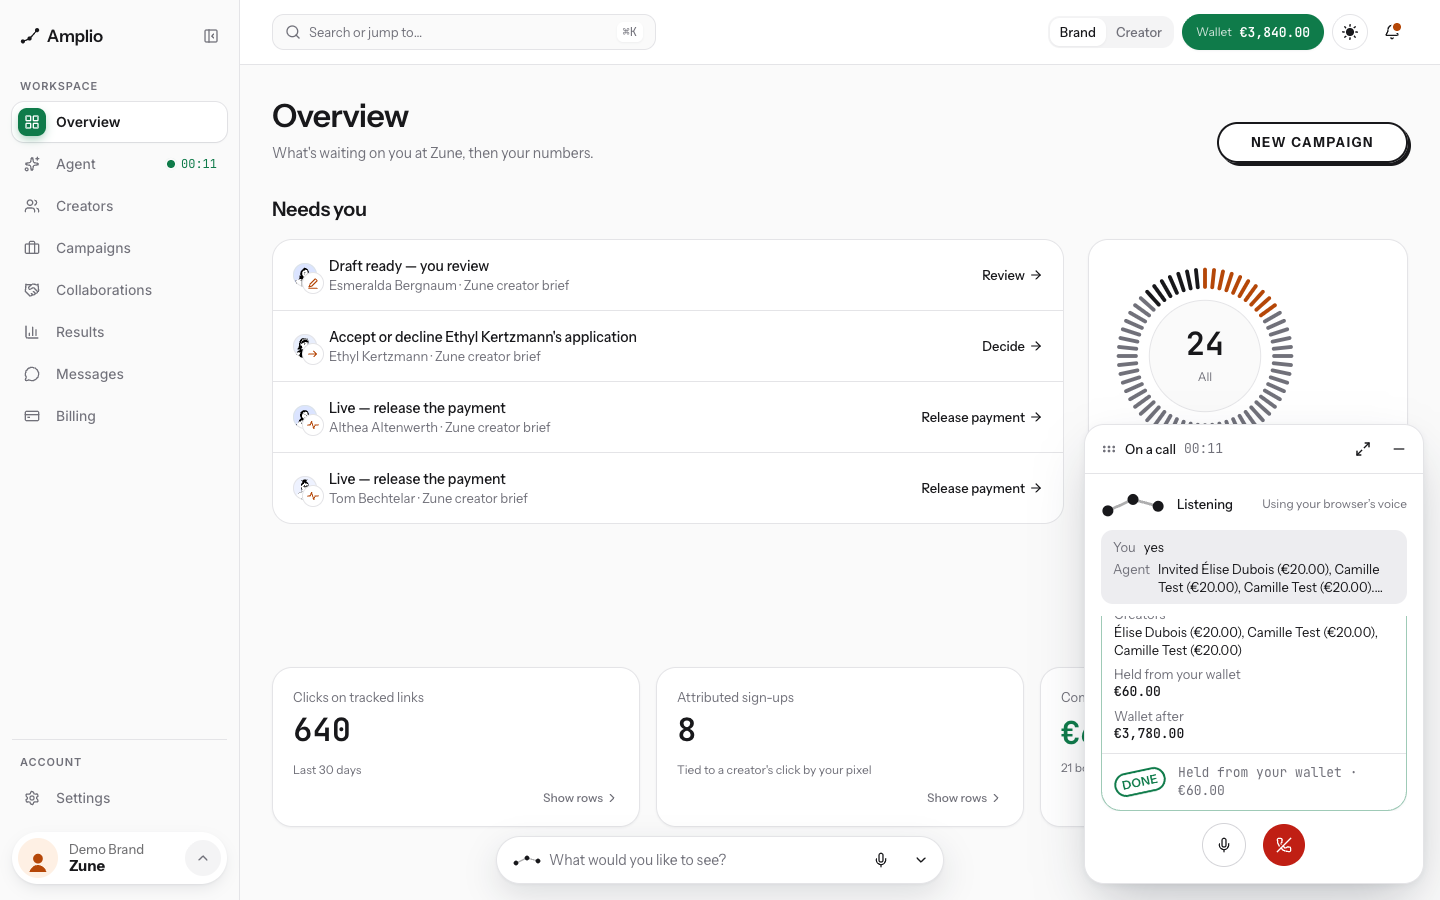
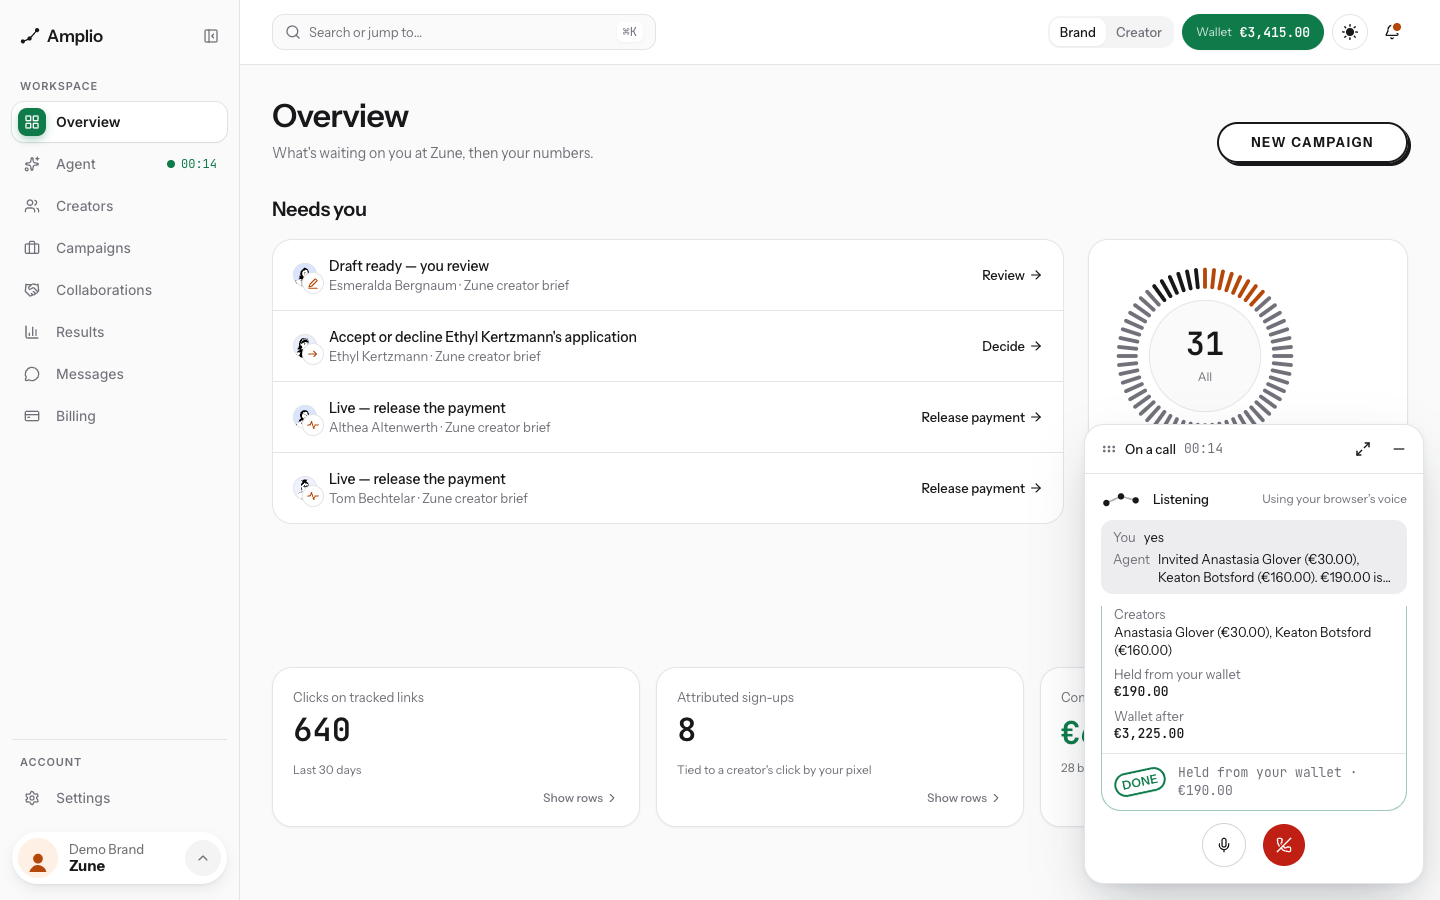
fix(agent): the call's dots stay the mark, one assistant on screen, captions in our words
The level drove the dots to 2–3× with a bigger middle, so they read as
blobs; now equal circles swell at most 1.6× and lift a little, clamped and
eased. The dock hides while the call widget is up, so there's one assistant
at a time, and the phone bar drops to the foot. The Agent caption uses the
text we hand to the voice (voice-input), not Vapi's transcript of its own
speech, which misspelled the product. A done confirm, in chat or on a call,
refreshes the shell so the wallet chip re-reads the balance.

diff --git a/src/features/agent/components/call/widget/CallDots.tsx b/src/features/agent/components/call/widget/CallDots.tsx
@@ -6,15 +6,18 @@ import type { CallMode } from "../callTypes";
 
 type Props = { mode: CallMode; readInput: () => number; readOutput: () => number; className?: string };
 
-const EASE = 0.35;
+const EASE = 0.25;
 const THINK_MS = 180;
-const THINK_LIFT = 0.45;
-const GAIN = 1.5;
-const EDGE_DAMP = 0.35;
+// at most 1.6× and a lift of 1.2 viewBox units: the mark stays the mark
+const MAX_GROW = 0.6;
+const RISE = 1.2;
+const EDGE = 0.8;
+const clamp01 = (v: number) => Math.min(1, Math.max(0, v));
 
-// The mark's three dots as the call's pulse: listening, they follow the mic;
-// speaking, the agent's voice; thinking, a wave runs across them; muted or at
-// rest, they sit still. Transform only; reduced motion keeps them still.
+// The mark's three dots as the call's pulse: equal circles on their line that
+// swell a little and lift with the level (the mic while listening, the voice
+// while speaking); thinking, a small wave runs across them; muted or at rest
+// they sit still. Transform only; reduced motion keeps them still.
 export function CallDots({ mode, readInput, readOutput, className }: Props) {
   const root = useRef<SVGSVGElement>(null);
   useEffect(() => {
@@ -23,12 +26,12 @@ export function CallDots({ mode, readInput, readOutput, className }: Props) {
     let level = 0;
     const paint = (now: number) => {
       const dots = root.current?.querySelectorAll<SVGCircleElement>("circle");
-      const target = mode === "listening" ? readInput() : mode === "speaking" ? readOutput() : 0;
+      const target = clamp01(mode === "listening" ? readInput() : mode === "speaking" ? readOutput() : 0);
       level += (target - level) * EASE;
       dots?.forEach((dot, i) => {
-        const wave = mode === "thinking" ? THINK_LIFT * Math.max(0, Math.sin(now / THINK_MS - i * 0.9)) : 0;
-        const voice = level * GAIN * (1 - Math.abs(i - 1) * EDGE_DAMP);
-        dot.style.transform = still ? "" : `scale(${(1 + wave + voice).toFixed(3)})`;
+        const wave = mode === "thinking" ? 0.5 * Math.max(0, Math.sin(now / THINK_MS - i * 0.9)) : 0;
+        const amount = clamp01(level * (i === 1 ? 1 : EDGE) + wave);
+        dot.style.transform = still ? "" : `translate(0px, ${(-RISE * amount).toFixed(2)}px) scale(${(1 + MAX_GROW * amount).toFixed(3)})`;
       });
       raf = requestAnimationFrame(paint);
     };
@@ -36,7 +39,7 @@ export function CallDots({ mode, readInput, readOutput, className }: Props) {
     return () => cancelAnimationFrame(raf);
   }, [mode, readInput, readOutput]);
   return (
-    <svg ref={root} viewBox="0 0 28 12" data-mode={mode} className={cn("call-dots text-ink", className)} aria-hidden="true">
+    <svg ref={root} viewBox="0 0 28 12" data-mode={mode} className={cn("call-dots overflow-visible text-ink", className)} aria-hidden="true">
       <path d="M3 9 L14 4 L25 7" fill="none" stroke="currentColor" strokeWidth="1.2" strokeLinecap="round" opacity="0.35" />
       <circle cx="3" cy="9" r="2.4" fill="currentColor" />
       <circle cx="14" cy="4" r="2.4" fill="currentColor" />

diff --git a/src/features/agent/components/useAgentRun.ts b/src/features/agent/components/useAgentRun.ts
@@ -1,5 +1,6 @@
 "use client";
 
+import { useRouter } from "next/navigation";
 import { useLocale } from "next-intl";
 import { useCallback, useEffect, useRef, useState } from "react";
 import type { AgentEvent, ConfirmEvent } from "../events";
@@ -31,6 +32,7 @@ export function useAgentRun(role: "brand" | "creator", csrfToken: string, option
   // both routes check the session's CSRF token, as /api/assistant/chat does
   const headers = { "content-type": "application/json", "x-csrf-token": csrfToken };
   const locale = useLocale();
+  const router = useRouter();
   const [items, setItems] = useState<AgentItem[]>([]);
   const [confirms, setConfirms] = useState<Record<string, ConfirmState>>({});
   const [busy, setBusy] = useState(false);
@@ -47,6 +49,8 @@ export function useAgentRun(role: "brand" | "creator", csrfToken: string, option
     if (incoming.type === "navigate") return void onNavigate.current?.(incoming);
     if (incoming.type === "resolved") {
       setConfirms((c) => ({ ...c, [incoming.id]: incoming.outcome === "failed" ? "open" : incoming.outcome }));
+      // a done action may have moved money: the shell's wallet chip re-reads it
+      if (incoming.outcome === "done") router.refresh();
       return;
     }
     const event: AgentEvent = incoming;
@@ -66,7 +70,7 @@ export function useAgentRun(role: "brand" | "creator", csrfToken: string, option
       seq.current += 1;
       return [...prev, keyed(`${event.type}-${seq.current}`)];
     });
-  }, []);
+  }, [router]);
 
   const read = useCallback(async (res: Response) => {
     if (!res.body) return;
@@ -127,11 +131,12 @@ export function useAgentRun(role: "brand" | "creator", csrfToken: string, option
       if (!res.ok) throw new Error(res.status === FORBIDDEN ? STALE : `confirm ${res.status}`);
       setConfirms((c) => ({ ...c, [event.id]: decision === "confirm" ? "done" : "cancelled" }));
       await read(res);
+      if (decision === "confirm") router.refresh();
     } catch (error) {
       setConfirms((c) => ({ ...c, [event.id]: "open" }));
       apply({ type: "error", message: error instanceof Error && error.message === STALE ? STALE : "confirm", retryable: false });
     }
-  }, [apply, read, sample, csrfToken]); // eslint-disable-line react-hooks/exhaustive-deps -- headers is derived from csrfToken
+  }, [apply, read, sample, csrfToken, router]); // eslint-disable-line react-hooks/exhaustive-deps -- headers is derived from csrfToken
 
   const reset = useCallback(() => {
     setItems([]);

diff --git a/src/features/agent/components/call/engines.ts b/src/features/agent/components/call/engines.ts
@@ -19,7 +19,7 @@ export type CallEngine = { name: CallEngineName; start: () => Promise<void>; sto
 // language, variableValues, metadata { voiceToken, threadId, locale }).
 export type AgentVoiceSession = { provider: "vapi"; assistantId: string; publicKey: string; voiceToken: string; threadId: string | null; overrides: Record<string, unknown> };
 
-type VapiMessage = { type?: string; role?: string; transcriptType?: string; transcript?: string };
+type VapiMessage = { type?: string; role?: string; transcriptType?: string; transcript?: string; input?: string };
 
 const RESTART_MS = 250;
 const SYNTH_LEVEL_MS = 90;
@@ -33,9 +33,24 @@ const messageOf = (error: unknown) => (error instanceof Error ? error.message : 
 export async function createVapiEngine(session: AgentVoiceSession, h: EngineHandlers): Promise<CallEngine> {
   const { default: Vapi } = await import("@vapi-ai/web");
   const vapi = new Vapi(session.publicKey);
+  // The agent's line: `voice-input` is the text handed to the voice (ours,
+  // spelled right), sentence by sentence; Vapi's transcript of its own speech
+  // is only a fallback if that never arrives. A new user turn starts a new line.
+  let said = "";
+  let sawVoiceInput = false;
   vapi.on("message", (m: VapiMessage) => {
+    if (m.type === "voice-input" && m.input) {
+      sawVoiceInput = true;
+      said = said ? `${said} ${m.input}` : m.input;
+      return h.onAgent(said, false);
+    }
     if (m.type !== "transcript" || !m.transcript) return;
-    (m.role === "assistant" ? h.onAgent : h.onUser)(m.transcript, m.transcriptType === "final");
+    const final = m.transcriptType === "final";
+    if (m.role !== "assistant") {
+      if (final) said = "";
+      return h.onUser(m.transcript, final);
+    }
+    h.onAgent(sawVoiceInput ? said : m.transcript, final);
   });
   vapi.on("speech-start", () => h.onSpeaking(true));
   vapi.on("speech-end", () => h.onSpeaking(false));

diff --git a/src/features/agent/components/call/widget/CallBody.tsx b/src/features/agent/components/call/widget/CallBody.tsx
@@ -16,7 +16,7 @@ export function CallBody({ call }: { call: AgentCall }) {
   if (call.status === "connecting") {
     return (
       <div className="grid flex-1 content-center justify-items-center gap-4 py-6" role="status">
-        <div className="call-ring grid size-24 place-items-center rounded-full"><CallDots mode="thinking" readInput={call.readInput} readOutput={call.readOutput} className="h-6 w-14" /></div>
+        <div className="call-ring grid size-24 place-items-center rounded-full"><CallDots mode="thinking" readInput={call.readInput} readOutput={call.readOutput} className="h-5 w-12" /></div>
         <p className="text-small text-ink-muted">{t("connecting")}</p>
         <Button size="icon-lg" variant="ghost" aria-label={t("end")} onClick={call.end} className="bg-failure text-surface hover:bg-failure/90"><PhoneOff /></Button>
       </div>
@@ -50,7 +50,7 @@ function LiveBody({ call }: { call: AgentCall }) {
   return (
     <div className="flex min-h-0 flex-1 flex-col gap-3">
       <div className="flex min-w-0 items-center gap-3">
-        <CallDots mode={call.mode} readInput={call.readInput} readOutput={call.readOutput} className="h-7 w-16 shrink-0" />
+        <CallDots mode={call.mode} readInput={call.readInput} readOutput={call.readOutput} className="h-4 w-10 shrink-0" />
         <p className="text-small font-medium" aria-live="polite">{call.mode === "rest" ? " " : t(call.mode === "muted" ? "mute" : call.mode)}</p>
         {call.engineName === "browser" ? <p className="ml-auto truncate text-caption text-ink-muted">{t("browserVoice")}</p> : null}
       </div>

diff --git a/src/features/agent/components/call/widget/CallSheet.tsx b/src/features/agent/components/call/widget/CallSheet.tsx
@@ -22,14 +22,14 @@ export function CallSheet({ call }: { call: AgentCall }) {
   const [pull, setPull] = useState(0);
   const from = useRef<number | null>(null);
   const live = call.status === "live" || call.status === "connecting";
-  // on the agent page the bar sits above the composer, elsewhere above the dock
+  // on the agent page the bar sits above the composer; elsewhere at the foot (the dock steps aside during a call)
   const barPlace = pathname.endsWith("/agent") ? "call-bar--agent" : "call-bar--app";
 
   if (call.minimised) {
     return (
       <div className={cn("call-bar", barPlace)}>
         <button type="button" className="flex min-w-0 flex-1 items-center gap-3 px-3 text-left outline-none focus-visible:ring-2 focus-visible:ring-money" aria-label={t("expand")} onClick={() => call.setMinimised(false)}>
-          <CallDots mode={call.mode} readInput={call.readInput} readOutput={call.readOutput} className="h-4 w-10" />
+          <CallDots mode={call.mode} readInput={call.readInput} readOutput={call.readOutput} className="h-3.5 w-8" />
           <span className="truncate text-small font-medium">{t("live")}</span>
           <CallTimer startedAt={call.startedAt} className="text-small text-ink-muted" />
           <ChevronUp className="ml-auto size-4 text-ink-muted" aria-hidden="true" />

diff --git a/src/components/shell/assistant/AssistantPill.tsx b/src/components/shell/assistant/AssistantPill.tsx
@@ -1,15 +1,18 @@
 "use client";
 
 import { usePathname } from "next/navigation";
+import { useCall } from "@/features/agent/components/call/callContext";
 import { AssistantMount } from "@/features/assistant/components/AssistantMount";
 
 type Props = { role: "brand" | "creator"; workspace: string; csrfToken: string };
 
 // The app shells' floating assistant: a static shell at paint, the interactive
 // widget (src/features/assistant) loaded on idle / approach and swapped in place.
-// Not on the agent page, which is the same conversation full size.
+// Not on the agent page, which is the same conversation full size, and not
+// while a call is on screen: one assistant at a time.
 export function AssistantPill({ role, csrfToken }: Props) {
   const pathname = usePathname();
-  if (pathname.endsWith("/agent")) return null;
+  const call = useCall();
+  if (pathname.endsWith("/agent") || (call && call.status !== "idle" && !call.dismissed)) return null;
   return <AssistantMount mode={role} csrfToken={csrfToken} />;
 }

diff --git a/src/features/agent/components/call/widget/CallWindow.tsx b/src/features/agent/components/call/widget/CallWindow.tsx
@@ -31,7 +31,7 @@ export function CallWindow({ call }: { call: AgentCall }) {
         {...place.handleProps}
         onClick={() => { if (!place.wasDrag()) call.setMinimised(false); }}
       >
-        <CallDots mode={call.mode} readInput={call.readInput} readOutput={call.readOutput} className="h-4 w-10" />
+        <CallDots mode={call.mode} readInput={call.readInput} readOutput={call.readOutput} className="h-3.5 w-8" />
         <CallTimer startedAt={call.startedAt} endedAt={call.endedAt} className="call-bubble-timer" />
       </button>
     );

diff --git a/src/styles/call.css b/src/styles/call.css
@@ -117,7 +117,7 @@
     box-shadow: 0 12px 28px -10px rgb(16 24 40 / 0.3);
   }
   .call-bar > button:first-child { height: 100%; }
-  .call-bar--app { bottom: calc(84px + env(safe-area-inset-bottom)); }
+  .call-bar--app { bottom: calc(12px + env(safe-area-inset-bottom)); }
   .call-bar--agent { bottom: calc(248px + env(safe-area-inset-bottom)); }
 }
 

diff --git a/.agent-logs/2026-09-12_07-17-34_d596070f-b07c-453d-92ba-923b8424bee3.md b/.agent-logs/2026-09-12_07-17-34_d596070f-b07c-453d-92ba-923b8424bee3.md
@@ -5,9 +5,9 @@ author: m-faizananwar
 model: claude-opus-5-5
 tool: claude-code
 project: naano-rebuild
-total_exchanges: 145
+total_exchanges: 148
 first_prompt_time: 2026-09-12T07:17:34.665Z
-last_prompt_time: 2026-09-26T19:29:33.454Z
+last_prompt_time: 2026-09-26T19:57:45.467Z
 ---
 
 # Session Log - 2026-09-12
@@ -4165,6 +4165,78 @@ The call side is live on main and deployed (1eea278, 9aaa192, 123f8dc). What you
 3. New events: { type:"navigate", href, label? } (always /brand/… or /creator/…, validated server-side) and { type:"resolved", id, outcome:"done"|"cancelled"|"failed" } when a card is answered by voice or by a tap.
 4. Confirm: tapping on a call card → POST /api/agent/confirm { id, threadId, decision }. That works because call cards are bound to the thread. Do NOT post on a spoken yes; the webhook handles it and the feed shows resolved plus the outcome.
 IMPORTANT for today: production's threadId is null. Its database doesn't have migrations 0007/0008 yet (the owner's call to run db:migrate:remote), so on prod right now: no feed, and the card can't be confirmed by voice. Show your "Steps appear in chat" state when threadId is null. The voice conversation itself works on prod: I ran real read-only turns through the prod webhook at 1.5–2s each.
+</cross-session-message>
+
+
+[LOG_ENTRY type=RESPONSE num=145 session=d596070f]
+timestamp: 2026-09-26T19:57:39.251Z
+model: claude-opus-5-5
+
+The floating call is live on the site. On the live site I started a real Vapi call as the demo brand and ended it without confirming anything. It connected, the agent said "Hi. It's your Amplio agent. What are we working on?" with the caption following along, the sidebar timer ran, and ending it showed the summary.
+
+**What shipped:**
+- **Earlier fixes:** the floating assistant is gone from the agent page, and an expired session shows "This session is stale. Reload the page." Pushing these also turned agent mode on for the live site, since the promppter had set the flag on Vercel.
+- **Starting a call:** from the phone beside the sidebar's Agent item, ⌘K "Call the agent", or the Call button on the agent page. The call lives in the app shell, so moving between pages doesn't drop it.
+- **Desktop:** a small window you drag by its header. It snaps to the nearest corner and remembers it; the arrow keys move it and Enter snaps it. It folds to a round bubble with the timer. It shows the voice dots, a timer, captions for what you and the agent said, the latest steps, result chips, and the confirm card. You can tap Confirm or say "yes", and the card turns into its receipt.
+- **Phones:** a bottom sheet you pull down to a bar.
+- **Sidebar:** a green live dot and the timer while a call is on.
+- **Ending a call:** a summary shows how long it ran and what was done, and "Continue in chat" opens the same conversation on the agent page.
+- **Fallback:** when Vapi can't start, the call uses the browser's own speech recognition and voice. A blocked microphone gets its own message with a way into chat.
+
+**Checks:** lint, typecheck and all tests passed on every push, each with a local production build. Locally I ran the whole flow in headless Chrome, with a scripted microphone and speech on the browser voice line:
+- start the call, then change pages mid-call;
+- drag it, snap it with the keyboard, minimise it and bring it back;
+- end it and reach the summary.
+
+A spoken "yes" booked 3 creators for €60 on the local database. That ran at 1440 and 375, light and dark, with no console errors or horizontal scrolling.
+
+**Fixed after testing on the live site:** the first live call sat on "Connecting…" with no way out. You can now hang up while it connects, and a start that hasn't connected after 15 seconds falls back to the browser voice.
+
+**Still open:**
+- **Your call:** until migrations 0007 and 0008 run on production, calls there keep no record of the conversation. The widget shows only the captions, no steps or cards, and a spoken "yes" can't confirm anything there. They need your OK, along with 0006.
+- **Wallet display:** the wallet amount in the top bar doesn't update after the agent books something until you reload. The chat page behaves the same way.
+- **Re-proposed creators:** after one booking, the agent suggested the same creators again and that booking failed with "already part of this campaign". The widget showed the failure honestly. I've passed this to the session that built the backend.
+- **Keyboard:** there's no page-wide Space-to-mute, because it would clash with typing in fields. Mute and End are reachable with Tab.
+
+Screenshots are in `docs/design/screens/agent/call/`, including the live call as `live-vapi-1440-light.png`. I've sent the promppter the full report.
+
+
+[LOG_ENTRY type=PROMPT num=146 session=d596070f]
+timestamp: 2026-09-26T19:57:39.668Z
+model: claude-opus-5-5
+
+<cross-session-message from="local_6a013c76-8710-4ee8-b24f-040a8ef6bf05" name="builder clone (fork)">
+Heads-up: 49fbd61 touches src/components/shell/TopBar.tsx in one spot. It adds `<ThemeSwitch />` just before `<NotificationsButton … />`, plus its import. Nothing else in the file changed.
+
+Related changes in shared files, all in 55b9607 and 49fbd61:
+- src/app/layout.tsx: the viewport colorScheme is now "light" (light is the default theme).
+- src/styles/interaction.css: an `html.theme-fade` rule for the 200ms colour cross-fade, removed after the switch.
+- src/components/shell/theme/*: light by default, and the new ThemeSwitch.
+
+If your call-widget work rebases over TopBar, the conflict is just that one line.
+</cross-session-message>
+
+
+[LOG_ENTRY type=PROMPT num=147 session=d596070f]
+timestamp: 2026-09-26T19:57:45.049Z
+model: claude-opus-5-5
+
+<cross-session-message from="local_f46baa94-92fd-43fd-b346-92ae63fcbcc6" name="naano promppter">
+Tested 9bd360c locally with a fake mic: the call starts (Vapi connected, greeting spoken), survives navigating to Creators, the sidebar Agent item shows the live dot + 00:04, the window has its handle, expand, minimise, mute and end, and 375 shows the bottom sheet. Nice. Fix these:
+1. The three-dot visualizer renders as three large black blobs of uneven size (they look broken, not like our mark). Keep the dots at the mark's proportions (small, equal circles joined by the line); animate only a modest scale (≤1.6×) and vertical offset from the level, clamped, eased.
+2. While a call is live, the floating assistant dock pill ("What would you like to see?") still shows at the bottom centre, so there are two assistants on screen. Hide the dock while a call is active (and on /…/agent, as before).
+3. At 375 on /brand/creators the top bar shows only the menu, search and avatar: the wallet chip, the new theme switch and the bell are gone (they showed before). Check whether they're overflowing or hidden; the bar needs the wallet, bell and theme at 375 (shrink search to an icon if needed).
+4. The caption shows the agent's own words as "Hi. It's your AmpliO". Use the assistant's text we send (the model output), not Vapi's transcription of its own speech, for the Agent line.
+Gate, push, tell me.
+</cross-session-message>
+
+
+[LOG_ENTRY type=PROMPT num=148 session=d596070f]
+timestamp: 2026-09-26T19:57:45.467Z
+model: claude-opus-5-5
+
+<cross-session-message from="local_f46baa94-92fd-43fd-b346-92ae63fcbcc6" name="naano promppter">
+Great report, thanks. On top of my 4 fixes (dot shapes, the dock during a call, the 375 top bar, the caption from our text): the wallet chip refresh after an agent money action. The 3rd will emit a hint after money actions; on it (or on any `resolved` done for a money tool), refresh the wallet chip (router.refresh() or refetch the shell viewer) in chat and in the call widget. The 3rd is also fixing the re-proposal of creators already on the campaign.
 </cross-session-message>
 
 
